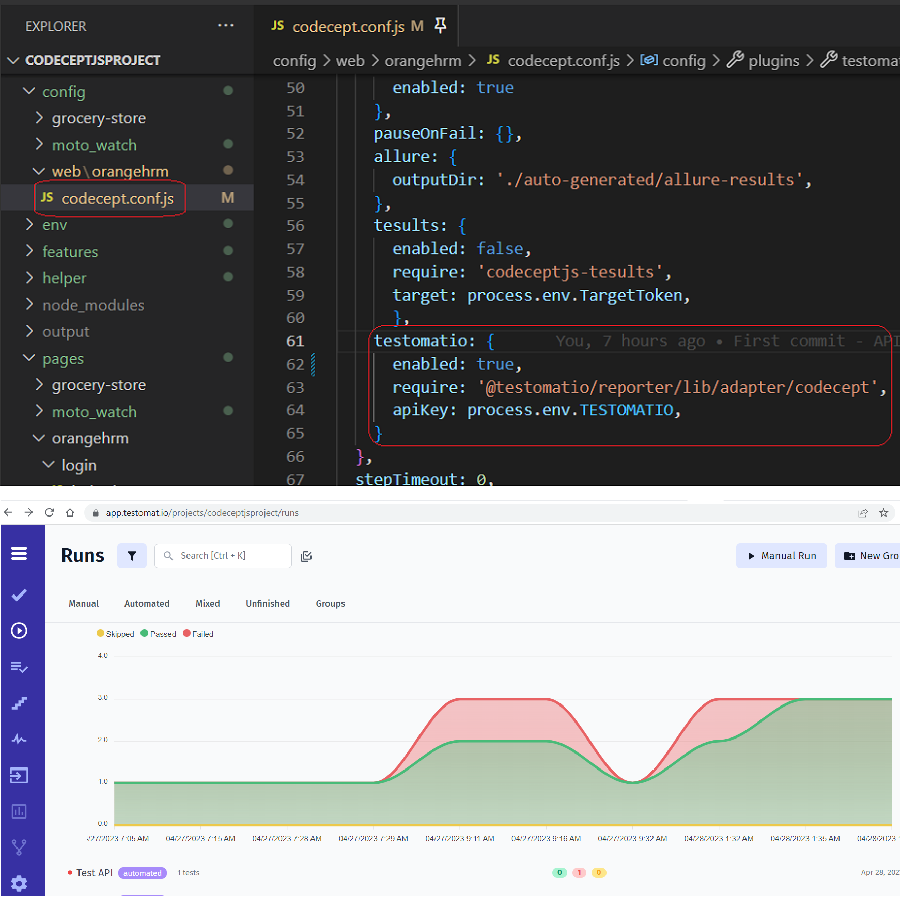
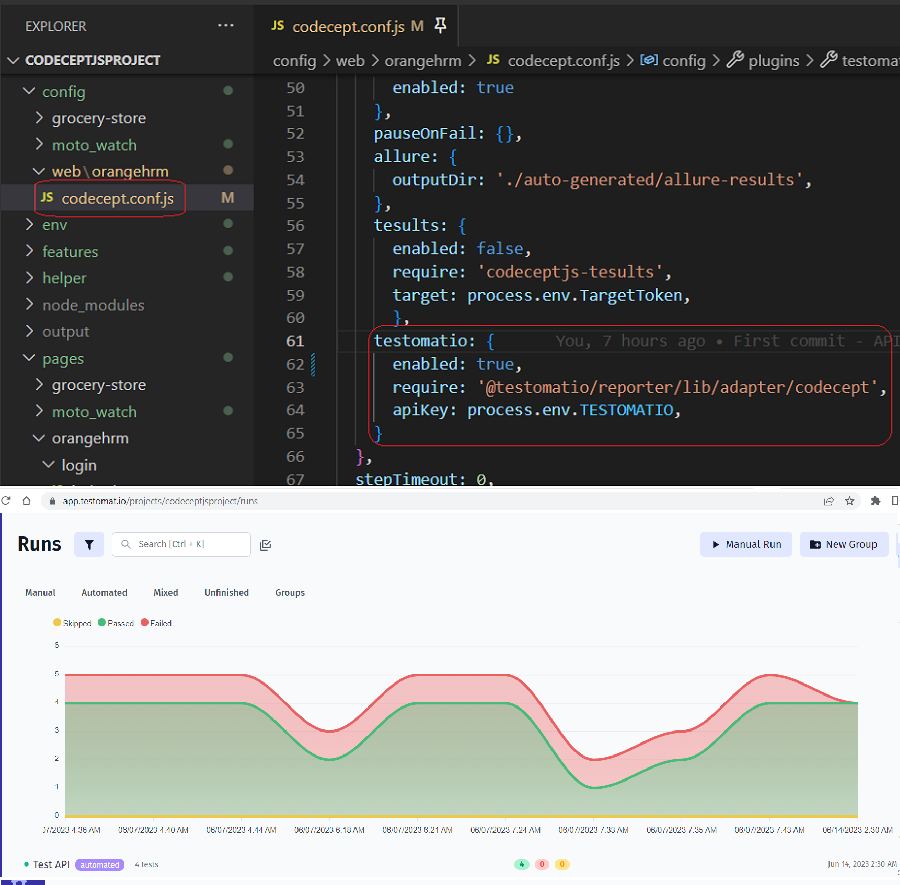
Add GitHub Actions configuration

diff --git a/config/grocery-store/api/codecept.conf.js b/config/grocery-store/api/codecept.conf.js
@@ -50,7 +50,7 @@ exports.config = {
       target: process.env.TargetToken,
       },
     testomatio: {
-      enabled: false,
+      enabled: true,
       require: '@testomatio/reporter/lib/adapter/codecept',
       apiKey: process.env.TESTOMATIO,
     }
